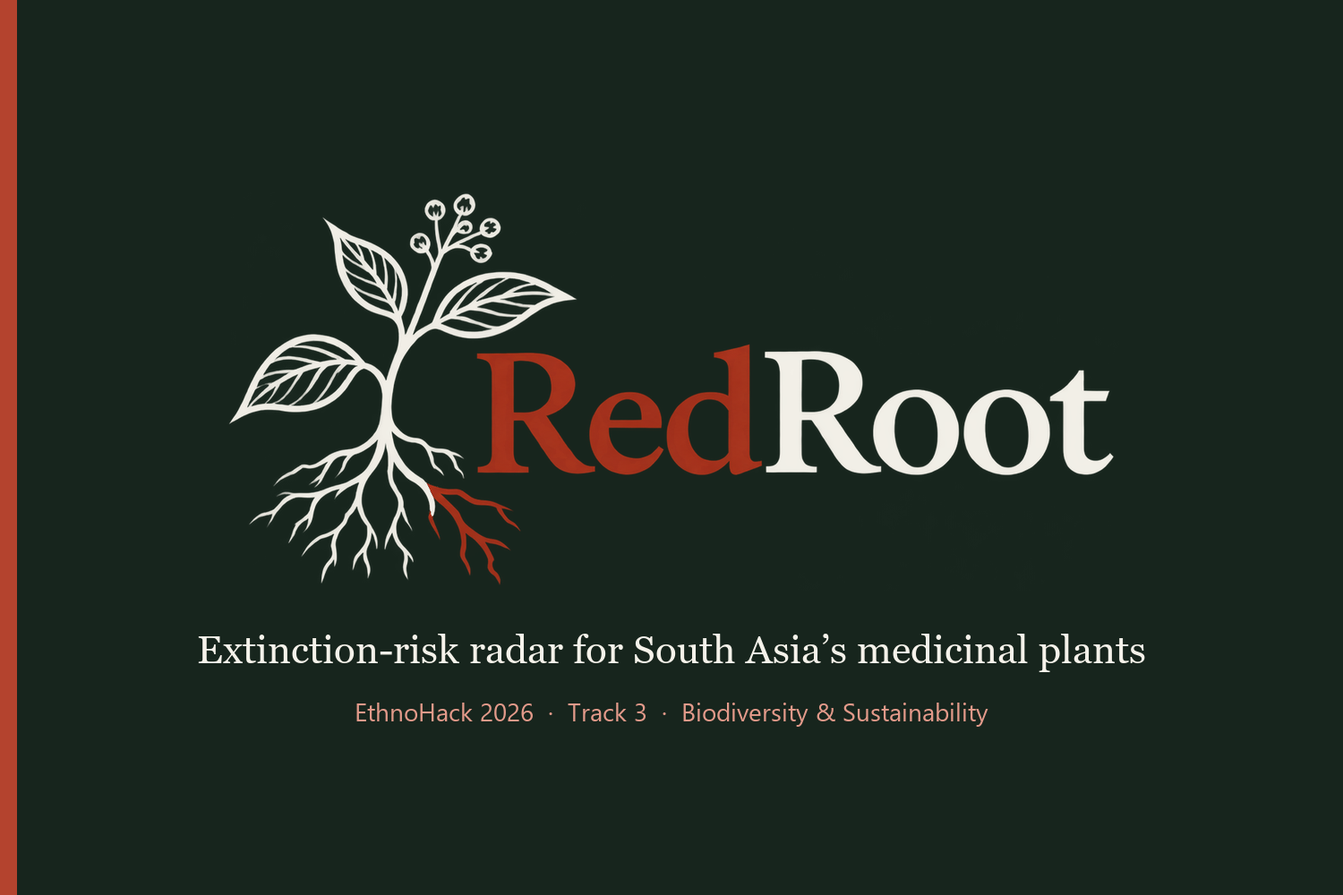
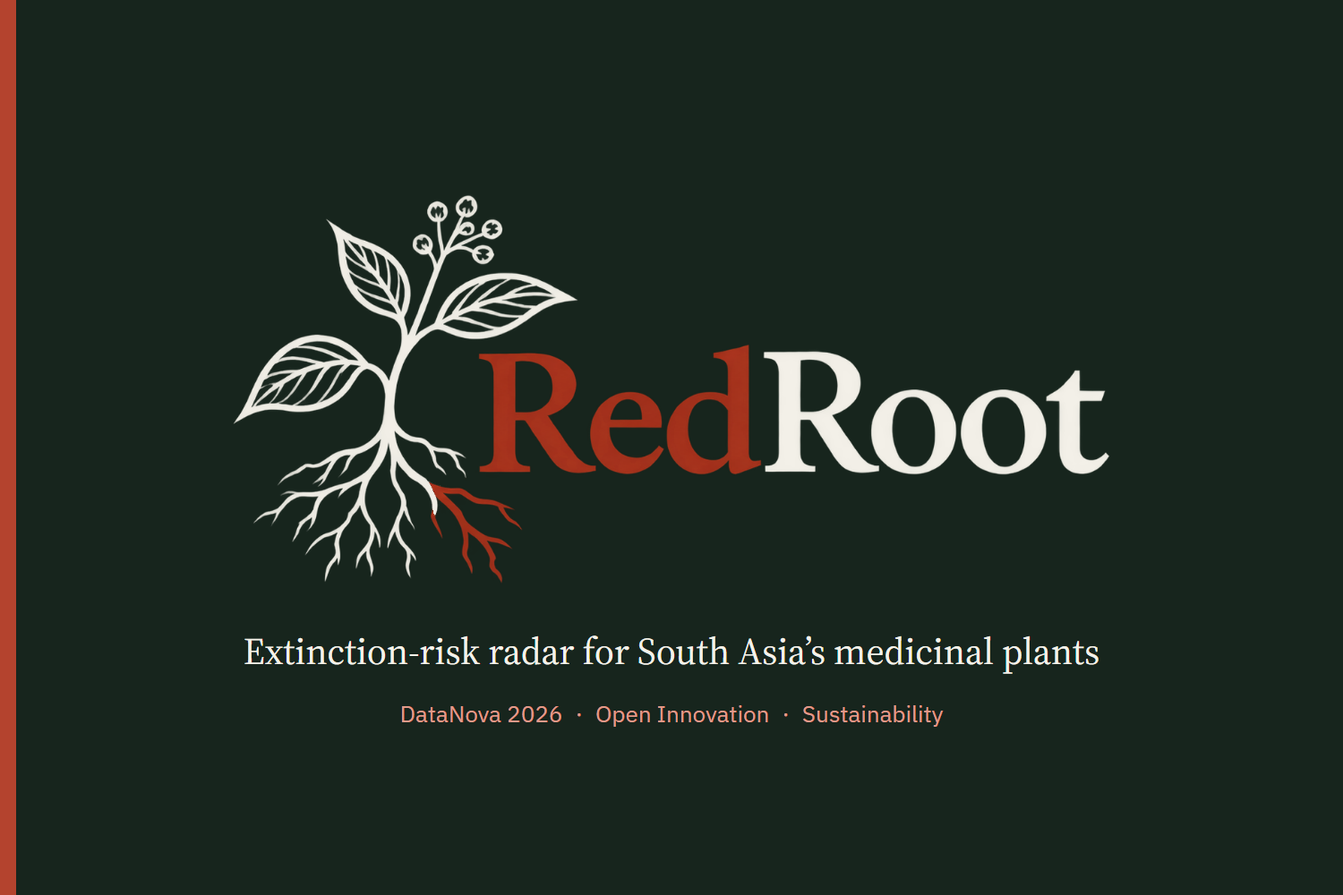
Minor changes

diff --git a/docs/index.html b/docs/index.html
@@ -4,7 +4,7 @@
 <meta charset="utf-8">
 <meta name="viewport" content="width=device-width, initial-scale=1">
 <title>RedRoot · Extinction-risk radar for South Asia's medicinal plants</title>
-<meta name="description" content="Which medicinal plants of South Asia are we losing, and which have never been assessed? An open-data, validated extinction-risk screening tool. EthnoHack 2026, Track 3.">
+<meta name="description" content="Which medicinal plants of South Asia are we losing, and which have never been assessed? An open-data, validated extinction-risk screening tool. DataNova 2026, Open Innovation.">
 <link rel="icon" type="image/png" href="img/favicon-64.png">
 <link rel="apple-touch-icon" href="img/apple-touch-icon.png">
 <meta property="og:title" content="RedRoot">
@@ -37,7 +37,7 @@
 <section id="hero" class="dark">
   <div class="wrap hero-grid">
     <div>
-      <p class="eyebrow light">EthnoHack 2026 · Track 3 · Biodiversity &amp; Sustainability</p>
+      <p class="eyebrow light">DataNova 2026 · Open Innovation · Sustainability</p>
       <h1>Which medicinal plants of South Asia are we losing, and which have never even been assessed?</h1>
       <p class="lead">RedRoot joins five open datasets with a model validated on plant families it never saw, to show which of <b>1,319</b> medicinal plants most urgently need an IUCN Red List assessment.</p>
       <div class="cta">
@@ -185,7 +185,7 @@
     <div>
       <p><b>Data:</b> Dr. Duke’s Phytochemical &amp; Ethnobotanical Databases (USDA-ARS, CC0) · GBIF occurrence data &amp; Backbone Taxonomy · IUCN Red List (via GBIF) · Kew World Checklist of Vascular Plants (CC BY 4.0) · TDWG WGSRPD. Basemap tiles © Esri (Esri, HERE, Garmin, © OpenStreetMap contributors).</p>
       <p>Outputs are preliminary screening estimates, not official Red List categories. Recorded uses are not evidence of efficacy or safety, and nothing here is medical advice.</p>
-      <p>Code MIT · <a href="https://github.com/DukeNukem1611/redroot">github.com/DukeNukem1611/redroot</a> · Built for EthnoHack 2026 by Harshil Agarwal and Aditi Choudhary, IIT Kharagpur.</p>
+      <p>Code MIT · <a href="https://github.com/DukeNukem1611/redroot">github.com/DukeNukem1611/redroot</a> · By Harshil Agarwal and Aditi Choudhary, IIT Kharagpur.</p>
     </div>
   </div>
 </footer>

diff --git a/src/s02_gbif.py b/src/s02_gbif.py
@@ -30,7 +30,7 @@ BASIS = ["PRESERVED_SPECIMEN", "HUMAN_OBSERVATION", "OBSERVATION", "MATERIAL_SAM
 MAX_TILES = 16
 EXTENT = 512
 _s = requests.Session()
-_s.headers["User-Agent"] = "EthnoHack2026-medicinal-plant-risk/0.1 (research prototype)"
+_s.headers["User-Agent"] = "RedRoot/0.1 (medicinal-plant extinction-risk research prototype)"
 
 
 def iucn(key: int) -> dict:

diff --git a/src/common.py b/src/common.py
@@ -26,7 +26,7 @@ SOUTH_ASIA_PREFIXES = (
 )
 
 _session = requests.Session()
-_session.headers["User-Agent"] = "EthnoHack2026-medicinal-plant-risk/0.1 (research prototype)"
+_session.headers["User-Agent"] = "RedRoot/0.1 (medicinal-plant extinction-risk research prototype)"
 
 
 def get_json(url: str, params: dict | None = None, cache: bool = True, retries: int = 9):

diff --git a/docs/devpost.md b/docs/devpost.md
@@ -1,49 +1,58 @@
 # RedRoot: an extinction-risk radar for South Asia's medicinal plants
 
-**Track:** 3 · Biodiversity & Sustainability
+**Problem statement:** DN-OP-01 · Open Innovation Challenge
+**Track:** Sustainability and Environmental Innovation
 
-**Live site:** https://dukenukem1611.github.io/redroot/ · **Code:** https://github.com/DukeNukem1611/redroot
+**Live demo:** https://dukenukem1611.github.io/redroot/ · **Code:** https://github.com/DukeNukem1611/redroot · **Dataset description:** https://github.com/DukeNukem1611/redroot/blob/main/docs/dataset.md
 
 ## Elevator pitch (Devpost field, 200 characters max)
 60% of South Asia's medicinal plants have never been assessed for extinction risk. RedRoot uses open data and validated ML to show assessors where to look first.
 
-## Short description
-RedRoot combines open ethnobotanical, taxonomic and biodiversity data with a family-validated machine-learning model. It shows which of South Asia's 1,319 recorded medicinal plants most urgently need an IUCN Red List assessment, and it exposes the blind spot that hides harvest-threatened species.
+## Project overview
+RedRoot combines five open datasets on traditional medicine, plant taxonomy and biodiversity with a machine-learning model validated on plant families it never saw. It shows which of South Asia's 1,319 recorded medicinal plants most urgently need an IUCN Red List assessment, and it exposes a blind spot in standard screening that hides plants threatened by overharvesting.
 
 ## Problem statement
-Traditional medicine in South Asia depends on wild-harvested plants, and several of them are already threatened by overharvesting: jatamansi, kuth, kutki. Yet **60% of the 1,319 medicinal species** with recorded uses in the region have no usable IUCN Red List assessment. An unassessed species is invisible to Red List-based policy, trade regulation and conservation funding. Full assessments need scarce expert time, so assessors need to know where to look first.
+Traditional medicine in South Asia depends on wild-harvested plants, and several are already threatened by overharvesting: jatamansi, kuth, kutki. Yet **60% of the 1,319 medicinal species** with recorded uses in the region have no usable IUCN Red List assessment. An unassessed species is invisible to Red List-based policy, trade regulation (CITES) and conservation funding. Each assessment needs scarce expert time, so assessors and agencies need to know where to look first.
 
-## Solution / approach
-1. **Species list:** every plant with a South Asian ethnobotanical record in Dr. Duke's database (82,873 use records), resolved against the GBIF Backbone Taxonomy.
-2. **Taxonomic reconciliation of IUCN status:** we recovered 45 assessments hidden behind GBIF synonyms, 6 of them threatened. Status is transferred only from homotypic synonyms. We reject heterotypic ones: a naive rule would make ashwagandha Critically Endangered via a Cape Verde endemic.
-3. **Native-range filter:** GBIF occurrences, gridded at about 2.4 km, are kept only inside each species' native range from Kew's WCVP. For Madagascar periwinkle, 99% of records lie outside its native range.
-4. **Features:** IUCN criterion-B range metrics (EOO, AOO), sampling effort and recency, life form and climate. Medicinal-use data is deliberately not a model input.
+## Proposed solution
+1. **Species list:** every plant with a South Asian ethnobotanical record in Dr. Duke's database, resolved against the GBIF Backbone Taxonomy.
+2. **Recovering hidden assessments:** 45 IUCN assessments, 6 of them threatened, were hidden behind GBIF synonyms. We transfer status only from homotypic synonyms (the same taxon under another genus). A naive rule would make ashwagandha Critically Endangered via a Cape Verde endemic; that and 21 other unsafe transfers are rejected and logged.
+3. **Native-range filter:** GBIF occurrences, gridded at about 2.4 km, are kept only inside each species' native range from Kew's WCVP. For Madagascar periwinkle, 99% of records fall outside its native range.
+4. **Features:** IUCN criterion-B range metrics (extent of occurrence, area of occupancy), sampling effort and recency, life form and climate. Medicinal-use data is deliberately not a model input.
 5. **Model:** gradient-boosted trees trained on 1,619 IUCN-assessed plants native to the Indian subcontinent, compared against the standard criterion-B rule.
-6. **Validation:** 5-fold cross-validation grouped by plant family, repeated over 5 seeds. Ablation, screening threshold chosen on out-of-fold data, bootstrap ensemble for uncertainty.
-7. **Outputs:** a priority list for assessors, a separate harvest watchlist for trade monitoring, and an interactive website (https://dukenukem1611.github.io/redroot/) with a hotspot map, filterable lists and a species explorer.
+6. **Two outputs for two kinds of risk:** a **priority list** of unassessed species the model screens as likely threatened, and a separate **harvest watchlist** for species whose range looks safe but whose profile matches the plants range-based screening misses.
 
-## Technologies used
-Python, pandas, scikit-learn (HistGradientBoosting), shapely, pyproj, mapbox-vector-tile, SciPy, GBIF REST and Maps APIs. Website: HTML/CSS/JavaScript, Leaflet, D3.js, GitHub Pages.
+## Technology stack
+- **Language and analysis:** Python, pandas, NumPy, SciPy
+- **Machine learning:** scikit-learn (HistGradientBoostingClassifier, grouped cross-validation, permutation importance, bootstrap ensemble)
+- **Geospatial:** shapely, pyproj, mapbox-vector-tile, GBIF Maps API
+- **Website:** HTML, CSS and JavaScript, Leaflet, D3.js, hosted on GitHub Pages (no backend)
+- **Datasets:** Dr. Duke's Phytochemical and Ethnobotanical Databases (USDA-ARS, CC0), GBIF occurrence data and Backbone Taxonomy, IUCN Red List categories via GBIF, Kew World Checklist of Vascular Plants (CC BY 4.0), TDWG WGSRPD level 3. Details: docs/dataset.md
 
-## Data sources
-Dr. Duke's Phytochemical and Ethnobotanical Databases (USDA-ARS, CC0) · GBIF occurrence data and Backbone Taxonomy · IUCN Red List categories via GBIF · Kew World Checklist of Vascular Plants (CC BY 4.0) · TDWG WGSRPD level 3. Full citations and licences are in the README.
+## Implementation and demonstration
+- **Live website:** https://dukenukem1611.github.io/redroot/ with headline numbers, the two findings, a hotspot map, a filterable and downloadable priority list, the harvest watchlist, a species explorer for all 1,319 plants, validation results and full methods.
+- **Code:** an eight-script pipeline (`src/s00` to `src/s05`), reproducible from scratch in about an hour. Every API response is cached so reruns are deterministic.
 
-## Results
-- Validation on 1,619 assessed species: ROC-AUC **0.912 ± 0.004**, against 0.884 for the criterion-B rule. Specificity rises from **0.27 to 0.86** at a sensitivity of 0.83.
+## Results and validation
+- Validated with 5-fold cross-validation **grouped by plant family**, repeated over 5 seeds, so every score comes from families the model never trained on.
+- ROC-AUC **0.912 ± 0.004**, against 0.884 for the criterion-B rule.
+- At the screening threshold, the criterion-B rule raises **866 false alarms** among 1,187 non-threatened species; RedRoot raises **108** and still catches **83%** of threatened species (specificity 0.27 → 0.86).
 - Medicinal subset: ROC-AUC **0.834 ± 0.013** vs 0.812.
-- **103** unassessed medicinal species screened as likely threatened (90 native to the subcontinent).
-- **51** species on the harvest watchlist.
-- **Blind-spot finding:** range-based screening misses the most heavily used threatened plants, with a median of 15.5 vs 4 recorded uses (p = 0.03), including jatamansi, kuth, sandalwood and guggul. Use counts alone cannot fix this (AUC 0.55). We report it openly and handle it with a separate monitoring list.
+- **103** unassessed medicinal species screened as likely threatened (90 native to the subcontinent); **51** species on the harvest watchlist.
+- **Blind-spot finding:** range-based screening misses the most heavily used threatened plants, with a median of 15.5 vs 4 recorded uses (Mann-Whitney p = 0.03), including jatamansi, kuth, sandalwood and guggul. Use counts alone cannot fix this (AUC 0.55). We report it openly and handle it with the separate watchlist.
 
-## Team
-- Harshil Agarwal, IIT Kharagpur
-- Aditi Choudhary, IIT Kharagpur
+## Potential impact
+- **Users:** Red List assessors (such as the IUCN SSC Medicinal Plant Specialist Group), the Botanical Survey of India, State Biodiversity Boards, the National Medicinal Plants Board, and herbal-industry supply chains that need to know which raw materials carry risk.
+- **Feasibility:** runs on open data and free APIs, needs no API keys, and the website has no backend to maintain.
+- **Scalability:** extending to another region means changing only the country list and the botanical region code.
+- **Next steps:** add CITES trade and market data so the watchlist can detect decline directly; field-check the top priority species with regional botanists; add climate exposure for Himalayan species; co-design the watchlist with harvesting communities under the Nagoya Protocol and India's Biological Diversity Act.
 
-## Impact and future development
-RedRoot gives Red List assessors (such as the IUCN SSC Medicinal Plant Specialist Group), the Botanical Survey of India, State Biodiversity Boards, the National Medicinal Plants Board and herbal supply chains a transparent, reproducible starting point. Next steps: add CITES trade and market data so the watchlist can detect decline directly; field-check the top priority species; add climate exposure for Himalayan species; and co-design with harvesting communities under the Nagoya Protocol and India's Biological Diversity Act.
+## Responsible AI and research
+Outputs are preliminary screening estimates, not official Red List categories. Recorded uses are shown as documented in the literature, not as evidence of efficacy or safety. We use only published, openly licensed records, aggregated to counts. The limitations (label bias, sampling bias, the blind spot for harvest-driven decline, grid resolution) are documented on the website and in docs/methods.md.
 
-## Responsible research
-Outputs are preliminary screening estimates, not official Red List categories. Recorded uses are shown as documented in the literature, not as evidence of efficacy or safety. We use only published, openly licensed records, aggregated to counts. The limitations (label bias, sampling bias, the criterion-A blind spot and grid resolution) are documented in the app and in docs/methods.md.
+## Team contributions
+- **Harshil Agarwal**, IIT Kharagpur: data pipeline (Dr. Duke's, GBIF and WCVP ingestion, name resolution, native-range filter, range metrics), IUCN synonym reconciliation, the machine-learning model and its family-grouped validation, and the website's maps and data export.
+- **Aditi Choudhary**, IIT Kharagpur: problem research on the medicinal-plant trade and Red List coverage, the blind-spot analysis and harvest-watchlist design, website design and the species explorer, documentation (methods, dataset description, responsible-use notes) and the presentation.
 
 ## Gallery images (upload in this order)
 1. `gallery/00_cover.png`: cover and thumbnail

diff --git a/docs/dataset.md b/docs/dataset.md
@@ -1,0 +1,69 @@
+# RedRoot dataset description
+
+This page describes every dataset RedRoot uses, how it was processed, and the datasets RedRoot produces. Every source is open and every step can be re-run from scratch with the scripts in `src/` (see the README section "Reproduce from scratch"). Data were accessed on 5 Nov 2026.
+
+## 1. Summary
+| | |
+|---|---|
+| Question the data answers | Which South Asian medicinal plants are likely threatened with extinction but have never been assessed by the IUCN Red List? |
+| Unit of analysis | One accepted plant species (GBIF Backbone Taxonomy) |
+| Medicinal species | **1,319** species in 187 families, with 6,429 South Asian use records |
+| Labelled training species | **1,619** IUCN-assessed vascular plants native to the Indian subcontinent (432 threatened, 195 families, 512 of them medicinal) |
+| Occurrence data | About 20 million georeferenced GBIF records, aggregated to 1,243,567 native-range grid cells for 1,283 medicinal species |
+| Personal data | None. All sources describe plants, not people |
+| Raw download size | About 550 MB, plus a cache of API responses |
+
+## 2. Source datasets
+| Dataset | Provider | What RedRoot takes from it | Licence |
+|---|---|---|---|
+| [Dr. Duke's Phytochemical and Ethnobotanical Databases](https://doi.org/10.15482/USDA.ADC/1239279) | USDA Agricultural Research Service | The `ETHNOBOT` table (82,873 use records worldwide): plant name, recorded use, country or community, literature reference | CC0 1.0 |
+| [GBIF Backbone Taxonomy](https://doi.org/10.15468/39omei) | Global Biodiversity Information Facility | Resolving names to accepted species; synonyms | CC BY 4.0 |
+| [GBIF occurrence data](https://www.gbif.org) via the Maps API | GBIF and its publishing institutions | Where each species has been recorded, as gridded counts with the year of the latest record | CC0 / CC BY / CC BY-NC per dataset; only aggregated counts are used |
+| [IUCN Red List](https://www.iucnredlist.org) categories, via GBIF's mirror of the IUCN checklist | IUCN | The official extinction-risk category of each assessed species (the training labels) | IUCN Terms of Use: non-commercial use with attribution |
+| [World Checklist of Vascular Plants (WCVP)](https://doi.org/10.1038/s41597-021-00997-6) | Royal Botanic Gardens, Kew | Native range by botanical country, life form, climate zone, accepted names | CC BY 4.0 |
+| [TDWG WGSRPD, level 3](https://github.com/tdwg/wgsrpd) | Biodiversity Information Standards (TDWG) | Polygons of the botanical countries used to decide whether a grid cell is in a species' native range | Open |
+
+## 3. How the data were processed
+1. **Medicinal species list.** All `ETHNOBOT` records whose country field names India (including named Indian communities), Nepal, Pakistan, Bangladesh, Sri Lanka, Bhutan, Sikkim, Kashmir, Assam or the Himalaya. This gives 1,560 distinct plant binomials.
+2. **Name resolution.** Each binomial is matched strictly to the GBIF Backbone (confidence ≥ 90, kingdom Plantae). 1,397 binomials matched and were merged into **1,319 accepted species**; 163 could not be matched. Every match and non-match is logged in `data/interim/name_matching.csv`.
+3. **IUCN labels.** Each accepted species gets its IUCN category from GBIF. For species that came back unassessed, we also checked their GBIF synonyms and their Kew WCVP accepted name. A category is transferred only from a homotypic synonym (same species epithet, so the same taxon) or the WCVP accepted species. This recovered **45** assessments; 22 unsafe candidates were rejected and logged in `data/interim/iucn_reconciled.csv`.
+4. **Occurrences.** GBIF Maps API vector tiles give gridded record counts (about 2.4 km cells for most species). Records with geospatial issues, living garden specimens and fossils are excluded.
+5. **Native-range filter.** Each grid cell is assigned to a TDWG botanical country. Only cells inside the species' WCVP native range are kept, which removes cultivated, introduced and naturalised records.
+6. **Features.** For each species, 30 model features: range size (extent of occurrence, area of occupancy, occupied 10 km and 50 km cells), geography (latitude, longitude, spans, number of native botanical countries), sampling effort and recency (record counts, share of specimens, year of the latest record), and WCVP life form and climate. Medicinal-use counts are **not** model features; they are used only to rank results.
+
+## 4. Labels and training set
+- **Label:** threatened (IUCN CR, EN or VU) = 1; not threatened (NT or LC) = 0. Data Deficient, Not Evaluated and Extinct in the Wild species are not used for training.
+- **Why the training set is larger than the medicinal list:** only 43 assessed medicinal species are threatened, too few to train a model. The training set therefore adds every IUCN-assessed vascular plant native to the Indian subcontinent (TDWG region 40) with GBIF records in South Asia, medicinal or not. Least Concern species are randomly sampled rather than taken as the most-recorded, so the model does not learn "rarely recorded = threatened".
+- **Split:** 5-fold cross-validation **grouped by plant family**, repeated over 5 seeds, so every score comes from families the model never saw.
+
+### Medicinal species by IUCN category (after reconciliation)
+| Category | NE | DD | LC | NT | VU | EN | CR | EW |
+|---|---|---|---|---|---|---|---|---|
+| Species | 760 | 31 | 470 | 11 | 20 | 18 | 8 | 1 |
+
+NE (Not Evaluated) and DD (Data Deficient) together make up the 791 species (60%) with no usable assessment. These are the species RedRoot scores.
+
+## 5. Datasets RedRoot produces
+| File | Rows | Contents |
+|---|---|---|
+| `data/processed/predictions.csv` | 1,319 | One row per medicinal species: IUCN category and its source, range metrics, P(threatened) with a 10th–90th percentile band, preliminary criterion-B category, priority score, use-pressure percentile and flags |
+| `data/processed/features.csv` | 4,108 | The feature table for the medicinal and training species |
+| `data/processed/points.csv.gz` | 1,243,567 | Native-range grid cells for medicinal species: latitude, longitude, record count, year of latest record |
+| `data/processed/metrics.json` | — | Every reported number: validation, blind-spot test, watchlist check, assessment-gap statistics |
+| `data/processed/importance.csv` | 30 | Permutation importance of each feature on held-out families |
+| `data/interim/name_matching.csv` | 1,560 | Audit of every name match |
+| `data/interim/iucn_reconciled.csv` | 836 | Recovered IUCN categories and rejected synonym candidates |
+| `docs/data/*.json` | — | The same results, exported for the website |
+
+## 6. Known biases and limits
+- **Label bias.** IUCN-assessed species are not a random sample of plants: threatened and well-studied groups are over-represented.
+- **Sampling bias.** GBIF coverage of South Asia is uneven and herbarium-heavy, so under-collected species can look rarer than they are. The sampling-effort features reduce this but cannot remove it.
+- **Use counts are not harvest volumes.** They count how often a plant is recorded as medicinal in the literature, not how much is collected from the wild.
+- **Grid resolution.** For very widespread species GBIF returns coarser grids, so area of occupancy is a loose lower bound. These species are far above every threat threshold anyway.
+- **Taxonomy changes.** GBIF, WCVP and IUCN sometimes disagree on names. The reconciliation step handles the common cases and logs every decision.
+
+## 7. Privacy, ethics and licensing
+- There is no personal or sensitive data. No individual GBIF occurrence records are redistributed; only aggregated grid counts are published.
+- Traditional knowledge is used only as published in an openly licensed (CC0) database, aggregated to counts and use categories. No preparations, dosages or community-specific knowledge are published beyond what the source cites.
+- IUCN categories are shown with attribution; IUCN assessment texts are not redistributed.
+- Recorded uses are not evidence of efficacy or safety.

diff --git a/README.md b/README.md
@@ -3,9 +3,10 @@
 <h1 align="center">RedRoot: extinction-risk radar for South Asia's medicinal plants</h1>
 
 <p align="center">
-<b>EthnoHack 2026 · Track 3: Biodiversity &amp; Sustainability</b><br>
+<b>DataNova 2026 Global Data-thon · Open Innovation Challenge (DN-OP-01) · Sustainability &amp; Environmental Innovation</b><br>
 <a href="https://dukenukem1611.github.io/redroot/"><b>Live website</b></a> ·
 <a href="docs/methods.md">Methods</a> ·
+<a href="docs/dataset.md">Dataset description</a> ·
 <a href="docs/devpost.md">Devpost write-up</a> ·
 <a href="#reproduce-from-scratch">Reproduce</a>
 </p>
@@ -14,7 +15,19 @@
 
 > South Asian traditional medicine uses well over a thousand recorded plant species. Most of them have **never been assessed** for extinction risk. An unassessed plant is invisible to Red List-based policy, trade regulation (CITES) and conservation funding. RedRoot combines five open datasets with a machine-learning model, validated on plant families it never saw, to show **which medicinal plants most urgently need a Red List assessment and field survey**. It also shows where the standard range-based screening goes blind.
 
+## Submission at a glance
+| DataNova requirement (DN-OP-01) | Where to find it |
+|---|---|
+| Problem statement | [The problem](#the-problem) |
+| Working demo | **https://dukenukem1611.github.io/redroot/** |
+| Code | this repository, [`src/`](src) and [`docs/`](docs) |
+| Documentation | this README and [docs/methods.md](docs/methods.md) |
+| Dataset description | [docs/dataset.md](docs/dataset.md) |
+| Results and validation | [Validation](#validation) and [`data/processed/metrics.json`](data/processed/metrics.json) |
+| Impact assessment | [Who this is for and what comes next](#who-this-is-for-and-what-comes-next) |
+
 ## Contents
+- [Submission at a glance](#submission-at-a-glance)
 - [At a glance](#at-a-glance)
 - [The problem](#the-problem)
 - [What we found](#what-we-found)
@@ -141,7 +154,7 @@ Dr. Duke's ethnobotany (CC0) ──► 1,319 medicinal species used in South Asi
 | Stage | Detail |
 |---|---|
 | **Species list** | Every plant binomial with at least one ethnobotanical record from India (including named communities), Nepal, Pakistan, Bangladesh, Sri Lanka, Bhutan or the Himalaya in Dr. Duke's database |
-| **Name resolution** | Strict GBIF Backbone match (confidence ≥ 90, kingdom Plantae). About 15% of binomials could not be resolved and are listed in `data/interim/name_matching.csv` |
+| **Name resolution** | Strict GBIF Backbone match (confidence ≥ 90, kingdom Plantae). 163 of the 1,560 binomials (about 10%) could not be resolved; every match and non-match is listed in `data/interim/name_matching.csv` |
 | **IUCN status** | GBIF's IUCN checklist mirror, plus homotypic synonym and WCVP accepted-name reconciliation |
 | **Occurrences** | GBIF Maps API vector tiles: georeferenced records without geospatial issues, with garden specimens and fossils excluded. Pulling gridded tiles is far faster than paging through individual records |
 | **Native-range filter** | Each grid cell is assigned to a TDWG level-3 botanical country. Only cells in the species' WCVP native range are kept, so introduced, cultivated and naturalised records are removed. For Madagascar periwinkle, 99% of records fall outside its native range |
@@ -228,7 +241,7 @@ python s05_export_site.py        # JSON for the website in docs/data/
 |---|---|
 | `src/common.py` | paths, the South Asia country list, and a cached, rate-limit-aware HTTP helper |
 | `src/s00_download.py` … `src/s05_export_site.py` | the pipeline steps, in run order (see above) |
-| `docs/` | the website (`index.html`, `css/`, `js/app.js`, `data/`, `img/`), plus `methods.md` and `devpost.md` |
+| `docs/` | the website (`index.html`, `css/`, `js/app.js`, `data/`, `img/`), plus `methods.md`, `dataset.md` and `devpost.md` |
 | `data/interim/` | species list, name-matching audit, IUCN categories and synonym reconciliation, GBIF counts |
 | `data/processed/` | model inputs and outputs (see [Output files](#output-files)) |
 | `gallery/` | Devpost gallery images (1500×1000, 3:2) |
@@ -287,7 +300,7 @@ Details are in [docs/methods.md](docs/methods.md#limitations-and-how-to-read-the
 - IUCN Standards and Petitions Committee (2024). Guidelines for Using the IUCN Red List Categories and Criteria, v16.
 
 ## Team
-Built for EthnoHack 2026 by two students at IIT Kharagpur:
+Built by two students at IIT Kharagpur:
 - [Harshil Agarwal](https://github.com/DukeNukem1611)
 - Aditi Choudhary
 
